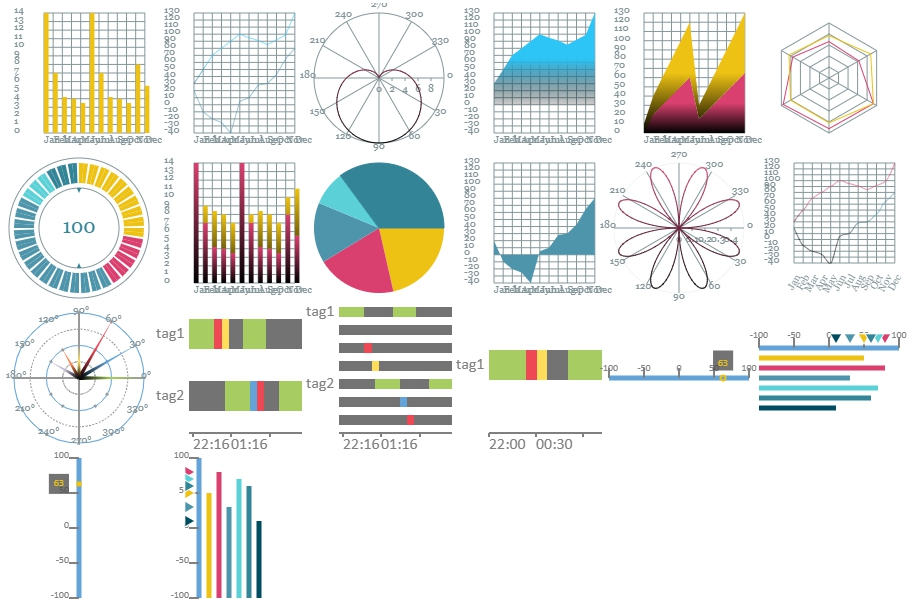
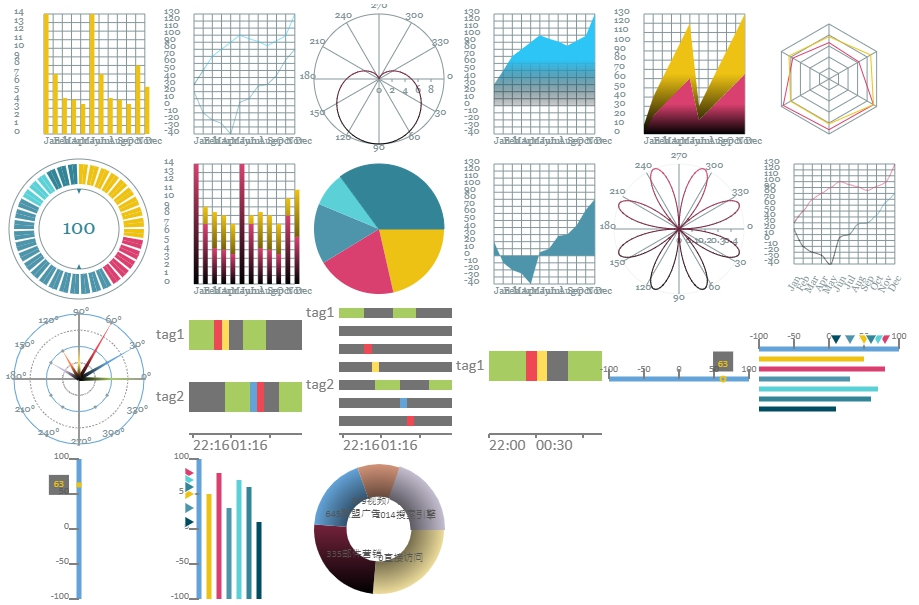
add doughnut pie

diff --git a/hichart/hichart_doughnutPie.js b/hichart/hichart_doughnutPie.js
@@ -1,0 +1,97 @@
+(function (global) {
+    hichart.prototype.defaultDoughnutPieOptions = function () {
+        var pieOptions = {
+            pie: {
+                degreeStep: 30,
+                innerRadiusRate: 0.5
+            }
+        }
+        this.options = this.mergeDeep(pieOptions, this.options);
+        return this;
+    }
+
+    hichart.prototype.plotDoughnutPieData = function (dataSet) {
+        var context = this.context;
+        var sections = this.options.sections;
+        var xScale = this.xScale;
+        var yScale = this.yScale;
+        var series = this.options.series;
+        var rect = this.rect;
+        var context = this.context;
+        var margin = this.options.margin;
+        var centerX = rect.x + rect.width / 2;
+        var centerY = rect.y + rect.height / 2;
+        var radius = rect.width / 2 - 2 * margin;
+        var innerRadius = radius * 0.5;
+        var Val_max = this.options.Val_max;
+        var Val_min = this.options.Val_min;
+        var stepSize = this.options.stepSize;
+        var stickSize = this.options.stick.size;
+
+        this.defaultDoughnutPieOptions()
+        innerRadius = radius * this.options.pie.innerRadiusRate;
+
+        //context.fillRect(0,0, rect.width, rect.height);
+        //******************
+        // context.scale((1 / this.scaleX), (1 / this.scaleY));
+        // context.translate(-1 * this.translateX, -1 * this.translateY);
+        //******************
+
+        context.translate(centerX, centerY);
+        for (var s = 0; s < series.length; s++) {
+
+            var sumOfData = series[s]['data'].reduce(function (a, b) {
+                return a + b['value'];
+            }, 0);
+            var currentSum = 0;
+            for (var d = 0; d < series[s]['data'].length; d++) {
+                var grd;
+                if (series[s]['data'][d]['linearGradient']) {
+                    grd = context.createLinearGradient(0, radius, 0, -1 * radius);
+                    for (g = 0; g < series[s]['data'][d]['linearGradient'].length; g++) {
+                        grd.addColorStop(series[s]['data'][d]['linearGradient'][g]['position'], series[s]['data'][d]['linearGradient'][g]['color']);
+                    }
+                } else if (series[s]['data'][d]['radialGradient']) {
+                    grd = context.createRadialGradient(0, 0, 0, 0, 0, radius);
+                    for (g = 0; g < series[s]['data'][d]['radialGradient'].length; g++) {
+                        grd.addColorStop(series[s]['data'][d]['radialGradient'][g]['position'], series[s]['data'][d]['radialGradient'][g]['color']);
+                    }
+                } else if (series[s]['data'][d]['color']) {
+                    grd = series[s]['data'][d]['color']
+                } else {
+                    grd = this.options.colorList[d];
+                }
+                context.strokeStyle = grd;
+                context.fillStyle = grd;
+                context.beginPath();
+
+                context.moveTo(innerRadius * Math.cos(currentSum / sumOfData * 2 * Math.PI), innerRadius * Math.sin(currentSum / sumOfData * 2 * Math.PI));
+                context.lineTo(radius * Math.cos(currentSum / sumOfData * 2 * Math.PI), radius * Math.sin(currentSum / sumOfData * 2 * Math.PI));
+                context.arc(0, 0, radius, currentSum / sumOfData * 2 * Math.PI, (currentSum + series[s]['data'][d]['value']) / sumOfData * 2 * Math.PI);
+                context.lineTo(innerRadius * Math.cos((currentSum + series[s]['data'][d]['value']) / sumOfData * 2 * Math.PI), innerRadius * Math.sin((currentSum + series[s]['data'][d]['value']) / sumOfData * 2 * Math.PI));
+                //context.arc(0, 0, innerRadius, currentSum / sumOfData * 2 * Math.PI, (currentSum + series[s]['data'][d]['value']) / sumOfData * 2 * Math.PI);
+                context.arc(0, 0, innerRadius, (currentSum + series[s]['data'][d]['value']) / sumOfData * 2 * Math.PI, currentSum / sumOfData * 2 * Math.PI, true);
+
+                context.fill();
+                if (series[s]['text'] && series[s]['text']['enable']) {
+                    context.textAlign = "center";
+                    context.textBaseline = "top";
+                    context.fillStyle = series[s]['color'];
+                    var textDegree = (currentSum / sumOfData * 2 * Math.PI + (currentSum + series[s]['data'][d]['value']) / sumOfData * 2 * Math.PI) / 2;
+                    context.fillText(currentSum + series[s]['data'][d]['name'], radius / 2 * Math.cos(textDegree), radius / 2 * Math.sin(textDegree));
+                }
+                currentSum += series[s]['data'][d]['value'];
+            }
+            context.stroke();
+        }
+        context.textBaseline = "alphabetic";
+        context.textAlign = "start";
+        context.translate(-1 * centerX, -1 * centerY);
+        //*********************
+        // context.translate(this.translateX, this.translateY);
+        // context.scale(this.scaleX, this.scaleY);
+        //*********************
+        return this;
+    }
+
+})(this)

diff --git a/sample.js b/sample.js
@@ -344,8 +344,7 @@ function sample(){
 		{ value: 63 }
 	];
 
-	var canvas18 = document.getElementById("canvas18");
-    var context18 = canvas18.getContext("2d");
+
     var B = new hichart('LinearGauge',context4,{x:600,y:300,width:150,height:150}, {
 		Val_max: 100,
 		Val_min: -100,
@@ -371,8 +370,7 @@ function sample(){
 		]
 	});
 
-	var canvas19 = document.getElementById("canvas19");
-    var context19 = canvas19.getContext("2d");
+
     var B = new hichart('LinearGauge',context4,{x:750,y:300,width:150,height:150}, {
 		Val_max: 100,
 		Val_min: -100,
@@ -391,8 +389,7 @@ function sample(){
 		]
 	});
 
-	var canvas20 = document.getElementById("canvas20");
-    var context20 = canvas20.getContext("2d");
+
     var B = new hichart('LinearGauge',context4,{x:0,y:450,width:150,height:150}, {
 		Val_max: 100,
 		Val_min: -100,
@@ -419,8 +416,7 @@ function sample(){
 		]
 	});
 
-	var canvas21 = document.getElementById("canvas21");
-    var context21 = canvas21.getContext("2d");
+
     var B = new hichart('LinearGauge',context4,{x:150,y:450,width:150,height:150}, {
 		Val_max: 100,
 		Val_min: -100,
@@ -439,6 +435,25 @@ function sample(){
 			{label:"tag1",data:value}
 		]
 	});
+
+
+	var A = new hichart('DoughnutPie',context4,{x:300,y:450,width:150,height:150},{
+		margin:5,
+		series:[{
+			text:{
+				enable:true
+			},
+			data: [
+                {value: 335, name: '直接访问', radialGradient:[{position:0,color:"#000000"},{position:1,color:"#ECDB9B"}]},
+                {value: 310, name: '邮件营销', linearGradient:[{position:0,color:"#000000"},{position:1,color:"#d9406f"}]},
+                {value: 234, name: '联盟广告', radialGradient:[{position:0,color:"#000000"},{position:1,color:"#64A3D8"}]},
+                {value: 135, name: '视频广告', radialGradient:[{position:0,color:"#000000"},{position:1,color:"#D19378"}]},
+                {value: 248, name: '搜索引擎', radialGradient:[{position:0,color:"#000000"},{position:1,color:"#C2BBCD"}]}
+            ],
+			color: "#555555",
+			linearGradient:[{position:0,color:"#000000"},{position:1,color:"#d9406f"}]
+		}]
+	})
 
 
 }

diff --git a/sample1.js b/sample1.js
@@ -436,6 +436,26 @@ function sample1(){
 		]
 	});
 
+	var canvas22 = document.getElementById("canvas22");
+    var context22= canvas22.getContext("2d");
+    var A = new hichart('DoughnutPie',context22,{x:0,y:0,width:300,height:300},{
+		margin:5,
+		series:[{
+			text:{
+				enable:true
+			},
+			data: [
+                {value: 335, name: '直接访问', radialGradient:[{position:0,color:"#000000"},{position:1,color:"#ECDB9B"}]},
+                {value: 310, name: '邮件营销', linearGradient:[{position:0,color:"#000000"},{position:1,color:"#d9406f"}]},
+                {value: 234, name: '联盟广告', radialGradient:[{position:0,color:"#000000"},{position:1,color:"#64A3D8"}]},
+                {value: 135, name: '视频广告', radialGradient:[{position:0,color:"#000000"},{position:1,color:"#D19378"}]},
+                {value: 248, name: '搜索引擎', radialGradient:[{position:0,color:"#000000"},{position:1,color:"#C2BBCD"}]}
+            ],
+			color: "#555555",
+			linearGradient:[{position:0,color:"#000000"},{position:1,color:"#d9406f"}]
+		}]
+	})
+
 
 
 }

diff --git a/chartAll.html b/chartAll.html
@@ -52,6 +52,7 @@ function run (){
 <script src="hichart/hichart_timeline.js"></script>
 <script src="hichart/hichart_timelineMulti.js"></script>
 <script src="hichart/hichart_linearGauge.js"></script>
+<script src="hichart/hichart_doughnutPie.js"></script>
 
 <script src="sample1.js"></script>
 <script src="sample.js"></script>
@@ -84,6 +85,8 @@ function run (){
 <canvas id="canvas19" height="300" width="300"></canvas>
 <canvas id="canvas20" height="300" width="300"></canvas>
 <canvas id="canvas21" height="300" width="300"></canvas>
+
+<canvas id="canvas22" height="300" width="300"></canvas>
 <br>
 <canvas id="canvas4" height="600" width="1200"></canvas>
 </div>

diff --git a/README.md b/README.md
@@ -259,6 +259,30 @@
 		}]
 	})
 
+
+## Doughnut 
+
+![DoughnutPie](readme/doughnutPie.jpg)  
+
+
+	var A = new hichart('DoughnutPie',context7,{x:0,y:0,width:300,height:300},{
+		margin:5,
+		series:[{
+			text:{
+				enable:true
+			},
+			data: [
+                {value: 335, name: '直接访问', radialGradient:[{position:0,color:"#000000"},{position:1,color:"#ECDB9B"}]},
+                {value: 310, name: '邮件营销', linearGradient:[{position:0,color:"#000000"},{position:1,color:"#d9406f"}]},
+                {value: 234, name: '联盟广告', radialGradient:[{position:0,color:"#000000"},{position:1,color:"#64A3D8"}]},
+                {value: 135, name: '视频广告', radialGradient:[{position:0,color:"#000000"},{position:1,color:"#D19378"}]},
+                {value: 248, name: '搜索引擎', radialGradient:[{position:0,color:"#000000"},{position:1,color:"#C2BBCD"}]}
+            ],
+			color: "#555555",
+			linearGradient:[{position:0,color:"#000000"},{position:1,color:"#d9406f"}]
+		}]
+	})
+
 ## Polar  
 
 ![polar](readme/polar.jpg)  
@@ -440,9 +464,141 @@
 
 ![TimelineMulti](readme/timeline3.jpg)  
 
+
     var B = new hichart('TimelineMulti',context4,{x:450,y:300,width:150,height:150}, {
 		series:[
 			{label:"tag1",data:testData}
+		]
+	});
+
+
+
+## Linear Guage (LinearGauge)
+
+測試資料:   
+
+	var value = [
+		{ value: 50 },
+		{ value: 80 },
+		{ value: 30 },
+		{ value: 70 },
+		{ value: 60 },
+		{ value: 10 }
+	];
+	  
+	var value1 = [
+		{ value: 63 }
+	];
+
+
+![LinearGauge](readme/linearGuage1.jpg)  
+
+
+	var canvas18 = document.getElementById("canvas18");
+    var context18 = canvas18.getContext("2d");
+    var B = new hichart('LinearGauge',context4,{x:600,y:300,width:150,height:150}, {
+		Val_max: 100,
+		Val_min: -100,
+		linearGauge:{
+			bar:{
+                padding: 5
+			},
+			lineWidth:5,
+			font: {
+                size: 10
+            },
+			type: { type: "circle" }, 
+			label: { 
+				type: "textCloud",
+				font:{
+					size: 10,
+				},
+				padding: 5
+			} 
+		},
+		series:[
+			{label:"tag1",data:value1}
+		]
+	});
+
+
+![LinearGauge](readme/linearGuage2.jpg)  
+
+
+	var canvas19 = document.getElementById("canvas19");
+    var context19 = canvas19.getContext("2d");
+    var B = new hichart('LinearGauge',context4,{x:750,y:300,width:150,height:150}, {
+		Val_max: 100,
+		Val_min: -100,
+		linearGauge:{
+			bar:{
+                padding: 5
+			},
+			lineWidth:5,
+			font: {
+                size: 10
+            },
+			label: { type: "marker"}
+		},
+		series:[
+			{label:"tag1",data:value}
+		]
+	});
+
+
+![LinearGauge](readme/linearGuage3.jpg)  
+
+
+	var canvas20 = document.getElementById("canvas20");
+    var context20 = canvas20.getContext("2d");
+    var B = new hichart('LinearGauge',context4,{x:0,y:450,width:150,height:150}, {
+		Val_max: 100,
+		Val_min: -100,
+		linearGauge:{
+			bar:{
+                padding: 5
+			},
+			lineWidth:5,
+			font: {
+                size: 10
+            },
+			type: { type: "rectangle" }, 
+			label: { 
+				type: "textCloud",
+				font:{
+					size: 10,
+				},
+				padding: 5
+			}, 
+			orientation: "vertical"
+		},
+		series:[
+			{label:"tag1",data:value1}
+		]
+	});
+
+
+![LinearGauge](readme/linearGuage4.jpg)  
+
+
+	var canvas21 = document.getElementById("canvas21");
+    var context21 = canvas21.getContext("2d");
+    var B = new hichart('LinearGauge',context4,{x:150,y:450,width:150,height:150}, {
+		Val_max: 100,
+		Val_min: -100,
+		linearGauge:{
+			bar:{
+                padding: 5
+			},
+			lineWidth:5,
+			font: {
+                size: 10
+            },
+			orientation: "vertical", 
+			label: { type: "marker"}
+		},
+		series:[
+			{label:"tag1",data:value}
 		]
 	});
 
